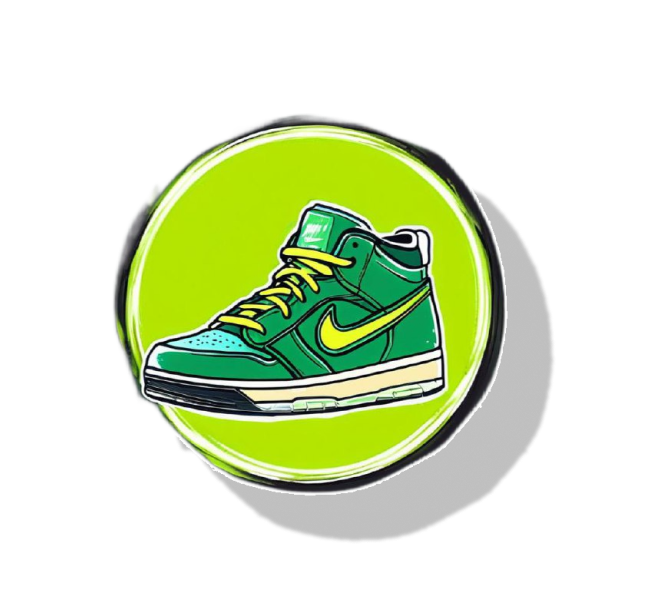
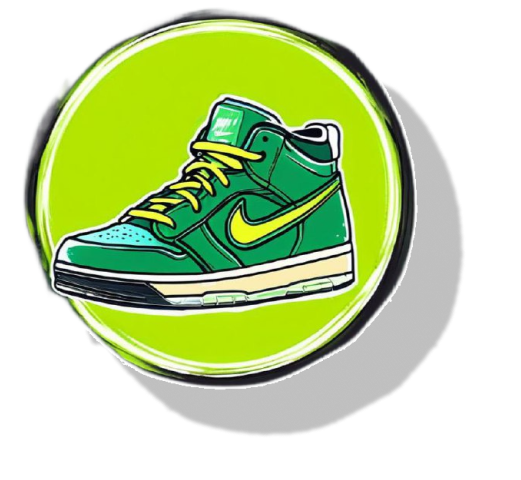
first commit2

diff --git a/assets/css/style.css b/assets/css/style.css
@@ -77,7 +77,7 @@ button, input{
 
 .banner-wrapper2{
     display: flex;
-    gap: 100px;
+    gap: 250px;
 }
 
 .banner-info{
@@ -89,9 +89,11 @@ button, input{
 }
 
 .banner-img img{
-    width: 500px;
-    height: 500px;
-    display: none;
+    width: 360px;
+    height: 400px;
+    display: flex;
+
+    padding:20px 0 0 0 ;
 }
 
 .banner-text{
@@ -984,7 +986,7 @@ button, input{
     }
 
     .banner-info{
-        padding: 100px;
+        padding: 40px;
     }
 
     .banner-img img{
@@ -1013,6 +1015,13 @@ button, input{
         margin-right: 100px;
     }
 }
+
+@media (max-width:1260px) {
+    .banner-wrapper2{
+        gap: 185px;
+    }
+}
+
 @media (max-width:1160px) {
 
     .rassilka-wrapper{
@@ -1025,8 +1034,7 @@ button, input{
 @media (max-width:1150px) {
 
     .header-wrapper{
-        display: flex;
-        /* justify-content: center; */
+        display:flex;
         gap: 100px;
     }
 
@@ -1093,6 +1101,12 @@ button, input{
     }
 }
 
+@media (max-width:1100px) {
+    .banner-wrapper2{
+        gap: 130px;
+    }
+}
+
 @media (max-width:1000px) {
     .header-burger{
         display: block;
@@ -1152,15 +1166,29 @@ button, input{
     .rassilka-info-knopki{
         gap: 40px;
     }
+
+    .banner-text{
+        font-size: 20px;
+    }
+
+    .banner-wrapper2{
+        gap: 40px;
+    }
 }
 
-@media (max-width:950px) {
+@media (max-width:960px) {
     .hit-product-top{
         gap: 90px;
     }
 
     .rassilka-pole input{
         width: 300px;
+    }
+
+    .banner-wrapper2{
+        justify-content: center;
+        align-items: center;
+        gap: 0;
     }
 }
 
@@ -1184,6 +1212,16 @@ button, input{
     .novinki-products{
         gap: 100px;
     }
+
+    .banner-button button{
+        font-size: 10px;
+        width: 40px;
+        height: 40px;
+    }
+
+    .banner-button p{
+        font-size: 18px;
+    }
 }
 
 @media (max-width:860px) {
@@ -1203,6 +1241,23 @@ button, input{
     .footer-info p{
         font-size: 12px;
     }
+
+    .banner-wrapepr2{
+        gap: 5px;
+    }
+
+    .banner-img img{
+        width: 300px;
+        height: 300px;
+    }
+
+    .banner-wrapper2 {
+        justify-content: center;
+        align-items: center;
+        gap: 0;
+    }
+
+    
 }
 
 @media (max-width:800px) {
@@ -1256,7 +1311,16 @@ button, input{
     .footer-info img { 
         margin-top: 20px; 
     } 
-} 
+
+    .banner-wrapper2{
+        display: flex;
+        flex-direction: column;
+    }
+
+    .banner-info{
+        gap: 20px;
+    }
+}   
  
 @media (max-width:700px) { 
     .novinki-products { 
@@ -1272,6 +1336,22 @@ button, input{
         text-align: center; 
         font-size: 38px; 
     }     
+}
+
+@media (max-width:460px) {
+    .banner-text{
+        font-size: 16px;
+    }
+
+    .banner-img img{
+        width: 220px;
+        height: 220px;
+    }
+
+    .banner-info{
+        padding: 0;
+        margin-top: 30px;
+    }
 }
 
 @media (max-width:400px) { 
@@ -1302,6 +1382,10 @@ button, input{
         font-size: 14px; 
         text-align: center; 
     } 
+
+    .banner-button{
+        gap: 20px;
+    }
 }
 
 

diff --git a/index.html b/index.html
@@ -36,7 +36,7 @@
 
             </div>    
 
-            <div class="icon">````
+            <div class="icon">
 
                 <i class="fa-solid fa-user fa-2xl"></i>
 
